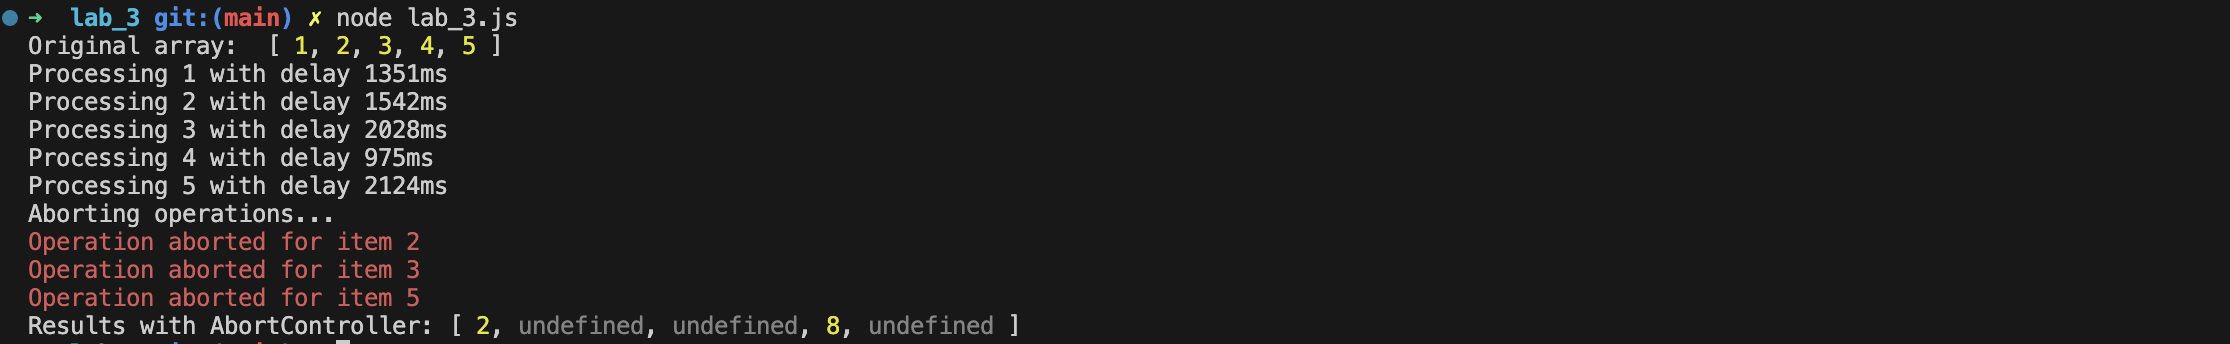
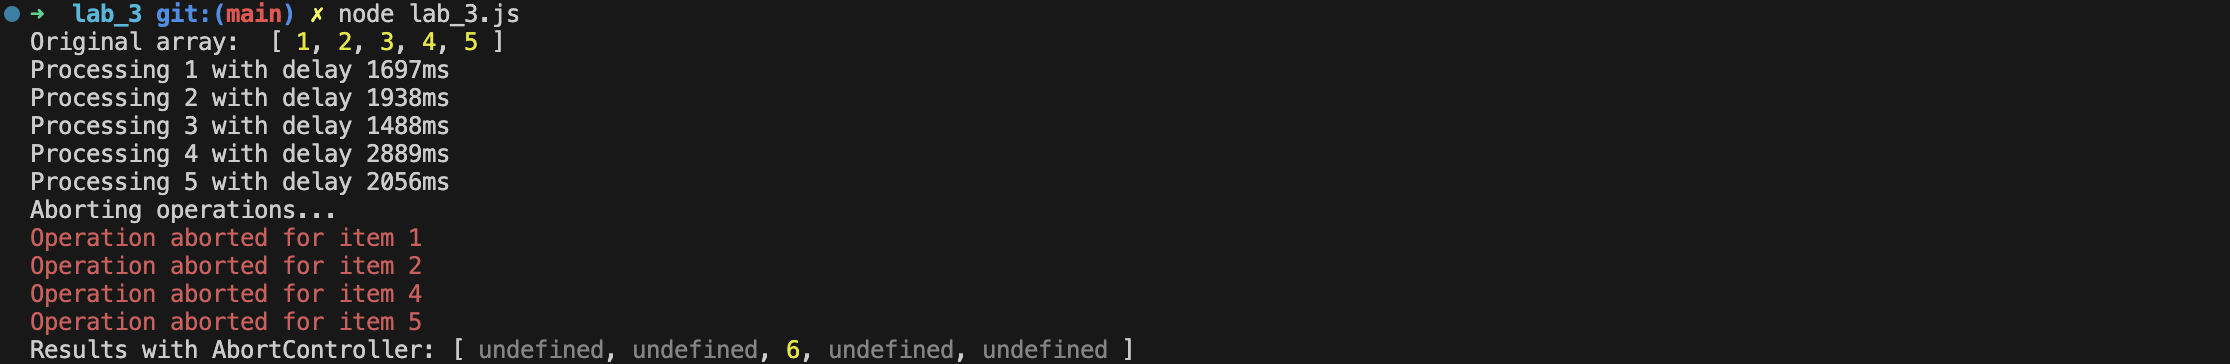
refactored error output

Changed region(s): [[0.0, 0.0, 0.4951, 1.0]]

diff --git a/lab_3/lab_3.js b/lab_3/lab_3.js
@@ -8,7 +8,7 @@ const asyncMap = async (array, asyncCallback, signal) => {
             if (err.name === 'AbortError') {
                 console.error(`Operation aborted for item ${item}`);
             } else {
-                console.error(err);
+                console.error(err.message);
             }
             mappedArray[index] = undefined;
         }
@@ -24,7 +24,7 @@ const asyncDouble = async (value, signal) => {
     return new Promise((resolve, reject) => {
         const timeout = setTimeout(() => {
             if (typeof value !== 'number') {
-                reject(new Error('Input must be a number'));
+                reject(new Error(`${value} is not a number!`));
             } else {
                 resolve(value * 2);
             }
@@ -32,7 +32,9 @@ const asyncDouble = async (value, signal) => {
 
         signal.addEventListener('abort', () => {
             clearTimeout(timeout);
-            reject(new DOMException('Operation aborted', 'AbortError'));
+            const abortError = new Error('AbortError')
+            abortError.name = 'AbortError'
+            reject(abortError);
         });
     });
 };
@@ -54,7 +56,7 @@ async function processWithAbortController() {
         const results = await asyncMap(numbers, asyncDouble, signal);
         console.log("Results with AbortController:", results);
     } catch (err) {
-        console.error(err);
+        console.error(err.message);
     }
 }
 

diff --git a/lab_2/lab_2_solution_with_parallelism.js b/lab_2/lab_2_solution_with_parallelism.js
@@ -5,7 +5,7 @@ const asyncMap = async (array, asyncCallback) => {
             const result = await asyncCallback(item);
             mappedArray[index] = result;
         } catch (err) {
-            console.error(err);
+            console.error(err.message);
             mappedArray[index] = undefined;
         }
     });
@@ -20,7 +20,7 @@ const asyncDouble = async (value) => {
     return new Promise((resolve, reject) => {
         setTimeout(() => {
             if (typeof value !== 'number') {
-                reject(new Error('Input must be a number'));
+                reject(new Error(`${value} is not a number!`));
             } else {
                 resolve(value * 2);
             }
@@ -28,7 +28,7 @@ const asyncDouble = async (value) => {
     });
 };
 
-const numbers = [52, 2626, 1, 0, 5];
+const numbers = ['string', 'str', 12345];
 console.log("Original array: ", numbers);
 
 async function processWithAsyncAwait() {
@@ -36,7 +36,7 @@ async function processWithAsyncAwait() {
         const results = await asyncMap(numbers, asyncDouble);
         console.log("Async-Await results:", results);
     } catch (err) {
-        console.error(err);
+        console.error(err.message);
     }
 }
 

diff --git a/lab_2/lab_2_async_await_solution.js b/lab_2/lab_2_async_await_solution.js
@@ -5,7 +5,7 @@ const asyncMap = async (array, asyncCallback) => {
             const result = await asyncCallback(array[i]);
             mappedArray[i] = result;
         } catch (err) {
-            console.error(err);
+            console.error(err.message);
             mappedArray[i] = undefined;
         }
     }
@@ -19,7 +19,7 @@ const asyncDouble = async (value) => {
     return new Promise((resolve, reject) => {
         setTimeout(() => {
             if (typeof value !== 'number') {
-                reject(new Error('Input must be a number'));
+                reject(new Error(`${value} is not a number!`));
             } else {
                 resolve(value * 2);
             }
@@ -28,7 +28,7 @@ const asyncDouble = async (value) => {
 };
 
 
-const numbers = [1.1, 5.5, 26];
+const numbers = [1.1, 'qwerty', 26];
 console.log("Original array: ", numbers);
 
 async function processWithAsyncAwait() {
@@ -36,7 +36,7 @@ async function processWithAsyncAwait() {
         const results = await asyncMap(numbers, asyncDouble);
         console.log("Async-Await results:", results);
     } catch (err) {
-        console.error(err);
+        console.error(err.message);
     }
 }
 

diff --git a/lab_2/lab_2_promised_solution.js b/lab_2/lab_2_promised_solution.js
@@ -14,7 +14,7 @@ const asyncMap = (array, asyncCallback) => {
                     }
                 })
                 .catch(err => {
-                    console.error(err);
+                    console.error(err.message);
                     mappedArray[i] = undefined;
                     completed++;
                     if (completed === arrayLength) {
@@ -32,7 +32,7 @@ const asyncDouble = (value) => {
 
         setTimeout(() => {
             if (typeof value !== 'number') {
-                reject(new Error('Input must be a number'));
+                reject(new Error(`${value} is not a number!`));
             } else {
                 resolve(value * 2);
             }
@@ -42,7 +42,7 @@ const asyncDouble = (value) => {
 
 
 
-const numbers = [1, 2, 5, 26, 3, 9, 0];
+const numbers = [1, 2, 5, 'ogogog', 3, 9, 0];
 console.log("Original array: ", numbers);
 
 asyncMap(numbers, asyncDouble)
@@ -50,5 +50,5 @@ asyncMap(numbers, asyncDouble)
         console.log("Promise-based results:", results);
     })
     .catch(err => {
-        console.error("Error in Promise-based map:", err);
+        console.error(err.message);
     });

diff --git a/lab_1/lab_1.js b/lab_1/lab_1.js
@@ -6,7 +6,7 @@ const asyncMap = (array, asyncCallback) => {
     for (let i = 0; i < arrayLength; i++) {
         asyncCallback(array[i], (err, result) => {
             if (err) {
-                console.error("Error: ", err);
+                console.error(err.message);
                 return;
             }
 
